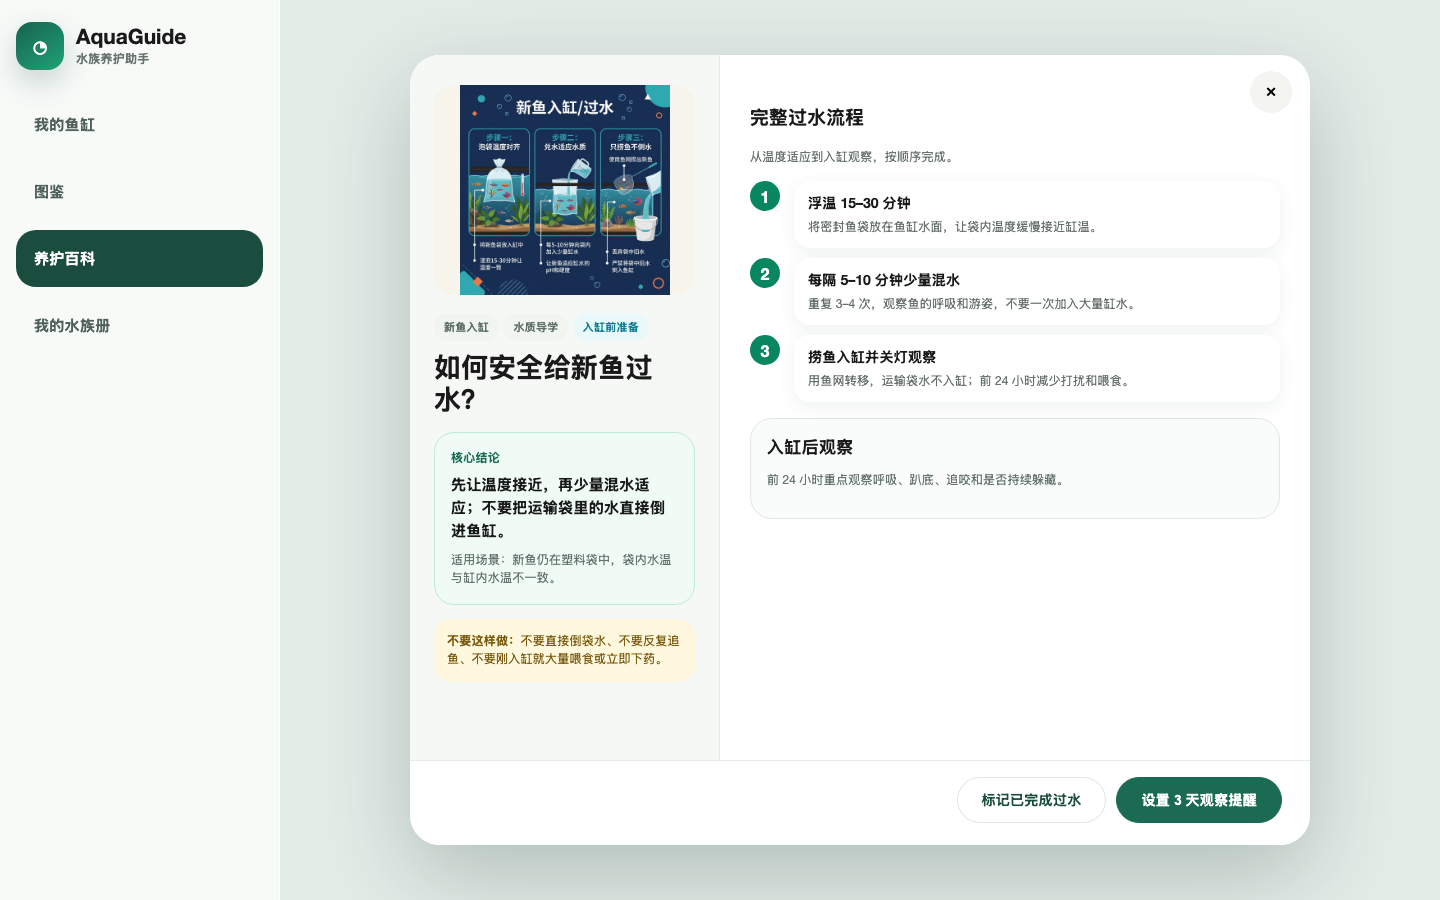
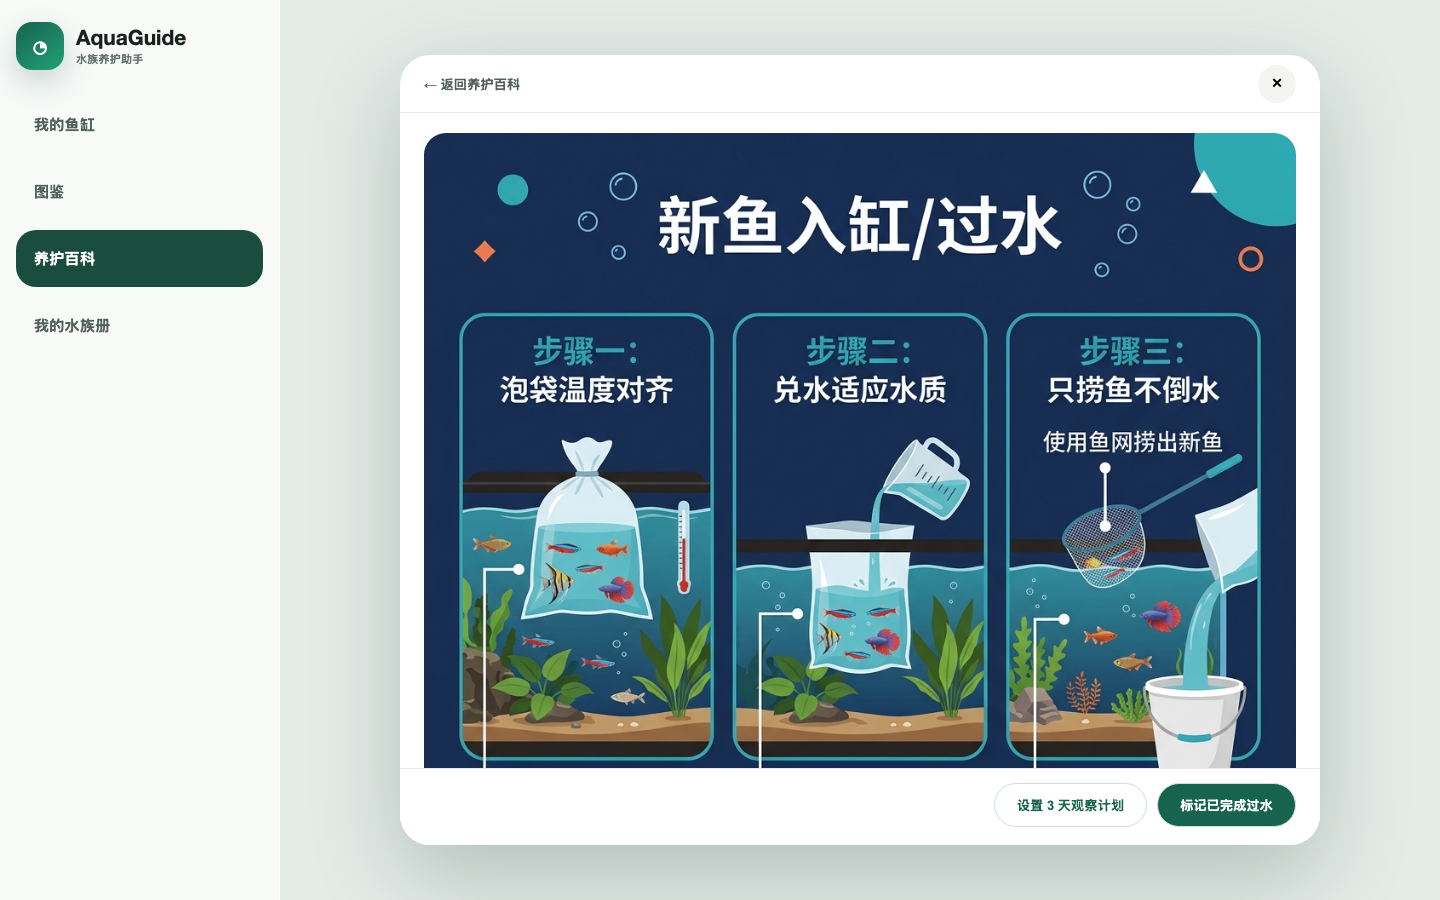
docs: update mobile care experience specs

diff --git a/docs/02-design/demos/care-detail-prototypes.html b/docs/02-design/demos/care-detail-prototypes.html
@@ -3,28 +3,29 @@
 <head>
   <meta charset="UTF-8" />
   <meta name="viewport" content="width=device-width, initial-scale=1.0" />
-  <title>AquaGuide 养护详情 Demo</title>
+  <title>AquaGuide 图示养护详情 Demo</title>
   <style>
-    *{box-sizing:border-box}body{margin:0;background:#dfe8e5;color:#1a1a1a;font-family:"Helvetica Neue",Arial,sans-serif}.stage{position:relative;width:1440px;height:900px;overflow:hidden}.sidebar{position:absolute;inset:0 auto 0 0;width:280px;background:#f8faf8;border-right:1px solid rgba(255,255,255,.8);padding:22px 16px}.brand{display:flex;align-items:center;gap:12px;font-size:21px;font-weight:900}.logo{width:48px;height:48px;border-radius:16px;display:grid;place-items:center;background:linear-gradient(145deg,#17634e,#20a276);color:#fff;font-size:22px;box-shadow:0 12px 30px rgba(27,77,62,.22)}.nav{margin-top:26px;display:grid;gap:10px}.nav div{padding:18px;border-radius:20px;font-size:15px;font-weight:800;color:#50605b}.nav .on{background:#1b4d3e;color:#fff}.backdrop{position:absolute;inset:0 0 0 280px;background:#e4ece8}.modal{position:absolute;left:calc(50% + 140px);top:50%;transform:translate(-50%,-50%);width:900px;height:790px;max-height:88vh;border-radius:30px;background:#fff;box-shadow:0 30px 90px rgba(16,46,37,.24);overflow:hidden;display:flex;flex-direction:column}.close{position:absolute;z-index:5;right:18px;top:16px;width:42px;height:42px;border:0;border-radius:50%;background:#f4f5f1;font-size:20px}.body{min-height:0;flex:1;overflow:hidden}.footer{flex:0 0 auto;padding:16px 28px 22px;border-top:1px solid #e8ece8;display:flex;justify-content:flex-end;gap:10px;background:#fff}.btn{height:46px;padding:0 24px;border-radius:999px;border:1px solid #dce5df;background:#fff;color:#1b4d3e;font-weight:900;font-size:14px}.btn.primary{background:#1b6b52;color:#fff;border-color:#1b6b52}.tag{display:inline-flex;padding:6px 10px;border-radius:999px;background:#f2f4ef;color:#60706a;font-size:11px;font-weight:800}.tag.blue{background:#eaf8fb;color:#117b91}.tag.warn{background:#fff4d8;color:#9a6a00}.title{font-size:27px;line-height:1.2;font-weight:950;margin:10px 0 0}.summary{border:1px solid #bdebd6;background:#f0fbf5;border-radius:20px;padding:16px}.summary b{display:block;color:#176b51;font-size:12px;margin-bottom:7px}.summary p{margin:0;font-size:15px;font-weight:800;line-height:1.55}.muted{color:#66736f;font-size:12px;line-height:1.55}.hero{display:block;width:100%;object-fit:contain;background:#f7f4ec;border-radius:20px}.section{border:1px solid #dfe7e2;border-radius:22px;padding:16px;background:#f9fcfa}.section h3{margin:0;font-size:17px}.steps{margin-top:14px;display:grid;gap:10px}.step{display:grid;grid-template-columns:34px 1fr;gap:10px;align-items:start}.num{width:30px;height:30px;border-radius:50%;display:grid;place-items:center;background:#07865f;color:#fff;font-weight:900}.card{background:#fff;border-radius:16px;padding:12px 14px;box-shadow:0 5px 18px rgba(24,65,51,.07)}.card strong{font-size:14px}.card p{margin:5px 0 0;color:#66706d;font-size:12px;line-height:1.5}.warning{background:#fff8df;border-radius:17px;padding:13px;color:#7c5d12;font-size:12px;line-height:1.55}.a .body{overflow:auto;padding:28px 34px}.a .top{display:grid;grid-template-columns:220px 1fr;gap:20px}.a .hero{height:218px}.a .section{margin-top:18px}.b .body{display:grid;grid-template-columns:310px 1fr;overflow:hidden}.b .left{padding:30px 24px;background:#f5f8f5;border-right:1px solid #e3e9e5}.b .hero{height:210px;margin-bottom:18px}.b .right{padding:30px;overflow:auto}.b .summary{margin-top:16px}.b .warning{margin-top:14px}.c .body{overflow:auto;padding:28px 34px}.c .head{display:grid;grid-template-columns:150px 1fr;gap:18px;align-items:center}.c .hero{height:142px}.progress{margin-top:17px;padding:14px 16px;border-radius:18px;background:#f3f8f5}.bar{height:8px;background:#dce9e2;border-radius:99px;overflow:hidden;margin-top:9px}.bar i{display:block;width:34%;height:100%;background:#15936a}.checklist{display:grid;gap:10px;margin-top:16px}.check{display:grid;grid-template-columns:42px 1fr auto;gap:12px;align-items:center;padding:14px;border:1px solid #dfe7e2;border-radius:18px}.box{width:30px;height:30px;border-radius:10px;border:2px solid #80ad9b}.time{font-size:11px;color:#7a8581;background:#f4f5f1;padding:6px 9px;border-radius:999px}
+    *{box-sizing:border-box}body{margin:0;background:#dfe8e5;color:#18211e;font-family:"Helvetica Neue",Arial,sans-serif}.stage{position:relative;width:1440px;height:900px;overflow:hidden}.sidebar{position:absolute;inset:0 auto 0 0;width:280px;background:#f8faf8;border-right:1px solid #fff;padding:22px 16px}.brand{display:flex;align-items:center;gap:12px;font-size:21px;font-weight:900}.logo{width:48px;height:48px;border-radius:16px;display:grid;place-items:center;background:linear-gradient(145deg,#17634e,#20a276);color:#fff;font-size:22px;box-shadow:0 12px 30px rgba(27,77,62,.22)}.nav{margin-top:26px;display:grid;gap:10px}.nav div{padding:18px;border-radius:20px;font-size:15px;font-weight:800;color:#50605b}.nav .on{background:#1b4d3e;color:#fff}.backdrop{position:absolute;inset:0 0 0 280px;background:#e4ece8}.modal{position:absolute;left:calc(50% + 140px);top:50%;transform:translate(-50%,-50%);width:920px;height:790px;border-radius:30px;background:#fff;box-shadow:0 30px 90px rgba(16,46,37,.24);overflow:hidden;display:flex;flex-direction:column}.headbar{height:58px;flex:none;display:flex;align-items:center;justify-content:space-between;padding:0 24px;border-bottom:1px solid #e8ece8}.back{font-size:13px;font-weight:850;color:#52615c}.close{width:38px;height:38px;border:0;border-radius:50%;background:#f4f5f1;font-size:20px}.body{min-height:0;flex:1;overflow:auto;padding:24px}.footer{flex:none;padding:14px 24px 18px;border-top:1px solid #e8ece8;display:flex;justify-content:flex-end;gap:10px;background:#fff}.btn{height:44px;padding:0 22px;border-radius:999px;border:1px solid #cfe2d8;background:#fff;color:#17634e;font-weight:900;font-size:13px}.btn.primary{background:#17634e;color:#fff}.tag{display:inline-flex;padding:5px 9px;border-radius:999px;background:#eef4f0;color:#557067;font-size:10px;font-weight:850}.tag.warn{background:#fff3cf;color:#8a6200}.title{font-size:27px;line-height:1.16;font-weight:950;margin:10px 0 5px}.muted{color:#66736f;font-size:11px;line-height:1.5}.hero{width:100%;height:100%;object-fit:contain;background:#f7f4ec;border-radius:22px}.imageBox{position:relative;min-height:0}.zoom{position:absolute;right:12px;bottom:12px;padding:7px 10px;border-radius:999px;background:rgba(255,255,255,.92);font-size:10px;font-weight:900;color:#17634e;box-shadow:0 6px 18px rgba(15,42,34,.13)}.summary{margin-top:12px;border:1px solid #bdebd6;background:#f0fbf5;border-radius:18px;padding:13px}.summary b{display:block;color:#176b51;font-size:11px;margin-bottom:5px}.summary p{margin:0;font-size:14px;font-weight:850;line-height:1.45}.steps{display:grid;gap:8px}.step{display:grid;grid-template-columns:29px 1fr;gap:8px;align-items:start;padding:10px;border-radius:15px;background:#f7faf8}.num{width:27px;height:27px;border-radius:50%;display:grid;place-items:center;background:#07865f;color:#fff;font-size:11px;font-weight:900}.step strong{font-size:12px}.step p{margin:4px 0 0;color:#66706d;font-size:10px;line-height:1.45}.warning{background:#fff7dc;border-radius:16px;padding:11px 12px;color:#76570d;font-size:10px;line-height:1.5}.label{font-size:12px;font-weight:950;margin-bottom:8px}.progress{display:flex;align-items:center;gap:8px;margin:10px 0}.progress i{height:8px;flex:1;border-radius:99px;background:linear-gradient(90deg,#16956c 33%,#dce9e2 33%)}.progress span{font-size:10px;font-weight:900;color:#17634e}.check{display:grid;grid-template-columns:32px 1fr auto;gap:9px;align-items:center;padding:12px;border:1px solid #dfe7e2;border-radius:16px}.box{width:27px;height:27px;border-radius:9px;border:2px solid #7aa895}.time{font-size:9px;color:#68746f;background:#eff3f0;padding:5px 7px;border-radius:999px}.a .body{display:grid;grid-template-columns:minmax(0,1.05fr) minmax(340px,.95fr);gap:18px}.a .imageBox{min-height:610px}.a .right{display:flex;flex-direction:column}.a .steps{margin-top:14px}.a .warning{margin-top:auto}.b .body{padding:0}.b .imageTop{height:380px;padding:20px 24px 0}.b .lower{display:grid;grid-template-columns:1fr 1.15fr;gap:18px;padding:18px 24px 24px}.b .summary{margin-top:8px}.c .body{display:grid;grid-template-columns:minmax(0,.92fr) minmax(360px,1.08fr);gap:20px}.c .imageBox{min-height:610px}.c .checklist{display:grid;gap:9px;margin-top:14px}.c .focus{border:2px solid #77bfa3;background:#f2fbf7}.phone .stage{width:390px;height:844px;background:#eef3f0}.phone .sidebar,.phone .backdrop{display:none}.phone .modal{inset:0;transform:none;width:390px;height:844px;border-radius:0;box-shadow:none}.phone .headbar{height:52px;padding:0 14px}.phone .body{padding:14px}.phone .footer{padding:10px 14px 18px;display:grid;grid-template-columns:1fr}.phone .footer .btn{width:100%}.phone .footer .secondary{display:none}.phone .title{font-size:22px}.phone .a .body,.phone .c .body{display:block}.phone .a .imageBox,.phone .c .imageBox{height:315px;min-height:315px}.phone .a .right,.phone .c .right{margin-top:14px}.phone .a .steps{margin-top:12px}.phone .a .warning{margin-top:10px}.phone .b .body{padding:0}.phone .b .imageTop{height:340px;padding:14px 14px 0}.phone .b .lower{display:block;padding:14px}.phone .b .steps{margin-top:12px}.phone .c .checklist{margin-top:12px}.phone .summary p{font-size:12px}.phone .step p{font-size:9.5px}
   </style>
 </head>
 <body>
   <div class="stage">
     <aside class="sidebar"><div class="brand"><div class="logo">◔</div><div>AquaGuide<div class="muted">水族养护助手</div></div></div><div class="nav"><div>我的鱼缸</div><div>图鉴</div><div class="on">养护百科</div><div>我的水族册</div></div></aside>
     <div class="backdrop"></div>
-    <main id="modal" class="modal a"><button class="close">×</button><div id="content" class="body"></div><footer class="footer"><button class="btn">标记已完成过水</button><button class="btn primary">设置 3 天观察提醒</button></footer></main>
+    <main id="modal" class="modal a"><header class="headbar"><span class="back">← 返回养护百科</span><button class="close">×</button></header><div id="content" class="body"></div><footer class="footer"><button class="btn secondary">设置 3 天观察计划</button><button class="btn primary">标记已完成过水</button></footer></main>
   </div>
   <script>
-    const variant=new URLSearchParams(location.search).get('variant')||'a';
+    const params=new URLSearchParams(location.search),variant=params.get('variant')||'a',device=params.get('device')||'desktop';
+    document.body.classList.toggle('phone',device==='mobile');
     const modal=document.querySelector('#modal');modal.className='modal '+variant;
-    const image='<img class="hero" src="/assets/qa/new_fish_acclimation_chinese.png" alt="新鱼过水示意">';
-    const tags='<span class="tag">新鱼入缸</span> <span class="tag">水质导学</span> <span class="tag blue">入缸前准备</span>';
-    const summary='<div class="summary"><b>核心结论</b><p>先让温度接近，再少量混水适应；不要把运输袋里的水直接倒进鱼缸。</p><div class="muted" style="margin-top:8px">适用场景：新鱼仍在塑料袋中，袋内水温与缸内水温不一致。</div></div>';
-    const steps='<div class="steps"><div class="step"><div class="num">1</div><div class="card"><strong>浮温 15–30 分钟</strong><p>将密封鱼袋放在鱼缸水面，让袋内温度缓慢接近缸温。</p></div></div><div class="step"><div class="num">2</div><div class="card"><strong>每隔 5–10 分钟少量混水</strong><p>重复 3–4 次，观察鱼的呼吸和游姿，不要一次加入大量缸水。</p></div></div><div class="step"><div class="num">3</div><div class="card"><strong>捞鱼入缸并关灯观察</strong><p>用鱼网转移，运输袋水不入缸；前 24 小时减少打扰和喂食。</p></div></div></div>';
-    const warning='<div class="warning"><b>不要这样做：</b>不要直接倒袋水、不要反复追鱼、不要刚入缸就大量喂食或立即下药。</div>';
-    if(variant==='a') document.querySelector('#content').innerHTML='<div class="top">'+image+'<div>'+tags+'<h1 class="title">如何安全给新鱼过水？</h1>'+summary+'</div></div><section class="section"><h3>现在按这 3 步做</h3>'+steps+warning+'</section>';
-    if(variant==='b') document.querySelector('#content').innerHTML='<aside class="left">'+image+tags+'<h1 class="title">如何安全给新鱼过水？</h1>'+summary+warning+'</aside><section class="right"><h3>完整过水流程</h3><p class="muted">从温度适应到入缸观察，按顺序完成。</p>'+steps+'<div class="section" style="margin-top:16px"><h3>入缸后观察</h3><p class="muted">前 24 小时重点观察呼吸、趴底、追咬和是否持续躲藏。</p></div></section>';
-    if(variant==='c') document.querySelector('#content').innerHTML='<div class="head">'+image+'<div>'+tags+'<h1 class="title">新鱼过水任务清单</h1><p class="muted">完成 1 / 3 · 预计还需 25 分钟</p></div></div>'+summary+'<div class="progress"><b>当前进度</b><div class="bar"><i></i></div></div><div class="checklist"><div class="check"><div class="box"></div><div><b>浮温</b><div class="muted">让袋内温度缓慢接近缸温</div></div><span class="time">15–30 分钟</span></div><div class="check"><div class="box"></div><div><b>少量混水</b><div class="muted">每 5–10 分钟加入少量缸水</div></div><span class="time">重复 3–4 次</span></div><div class="check"><div class="box"></div><div><b>捞鱼入缸</b><div class="muted">袋水不入缸，关灯安静观察</div></div><span class="time">完成</span></div></div>'+warning;
+    const image='<div class="imageBox"><img class="hero" src="/assets/qa/new_fish_acclimation_chinese.png" alt="新鱼过水完整图示"><span class="zoom">查看高清图 ↗</span></div>';
+    const intro='<div><span class="tag">新鱼入缸</span> <span class="tag warn">入缸前准备</span><h1 class="title">如何安全给新鱼过水？</h1><div class="muted">准备：鱼袋、干净容器、鱼网 · 预计 25–40 分钟</div></div>';
+    const summary='<div class="summary"><b>先记住</b><p>先对温，再少量混水；只捞鱼入缸，运输袋里的水不要倒进鱼缸。</p></div>';
+    const steps='<div class="steps"><div class="step"><div class="num">1</div><div><strong>泡袋对温 20–30 分钟</strong><p>保持鱼袋密封，漂在水面，让温度缓慢接近。</p></div></div><div class="step"><div class="num">2</div><div><strong>每 5–10 分钟少量混水</strong><p>重复 3–4 次，同时观察呼吸和游姿。</p></div></div><div class="step"><div class="num">3</div><div><strong>只捞鱼入缸，关灯观察</strong><p>袋水不入缸，前 24 小时减少喂食和打扰。</p></div></div></div>';
+    const warning='<div class="warning"><b>不要这样做：</b>不要直接倒袋水、不要反复追鱼、不要刚入缸就大量喂食或下药。</div>';
+    if(variant==='a') document.querySelector('#content').innerHTML=image+'<section class="right">'+intro+summary+'<div class="label" style="margin-top:14px">现在按这 3 步做</div>'+steps+warning+'</section>';
+    if(variant==='b') document.querySelector('#content').innerHTML='<div class="imageTop">'+image+'</div><div class="lower"><section>'+intro+summary+warning+'</section><section><div class="label">图解操作清单</div>'+steps+'</section></div>';
+    if(variant==='c') document.querySelector('#content').innerHTML=image+'<section class="right">'+intro+summary+'<div class="progress"><i></i><span>1 / 3</span></div><div class="label">当前：先完成泡袋对温</div><div class="checklist"><div class="check focus"><div class="box"></div><div><b>泡袋对温</b><div class="muted">鱼袋保持密封，漂浮 20–30 分钟</div></div><span class="time">进行中</span></div><div class="check"><div class="box"></div><div><b>少量混水</b><div class="muted">每 5–10 分钟加入少量缸水</div></div><span class="time">下一步</span></div><div class="check"><div class="box"></div><div><b>捞鱼入缸</b><div class="muted">袋水不入缸，关灯观察</div></div><span class="time">待完成</span></div></div>'+warning+'</section>';
   </script>
 </body>
 </html>

diff --git a/40-DOCS/CHANGELOG.md b/40-DOCS/CHANGELOG.md
@@ -14,7 +14,7 @@
 - 我的水族册、派生成就与分层交互的数据契约和设计基线。
 - `/collection` 四合一水族册及种草、养护、生命纪念、成就勋章四个页签。
 - 8 枚从既有鱼缸、收藏、巡检、换水和死亡记录自动追溯的成就勋章。
-- 桌面右侧详情抽屉、手机底部详情面板与自适应任务流程表面。
+- 桌面中央详情弹窗、手机底部详情面板与自适应任务流程表面。
 - 水族册成就断言、按钮行为审计和新版核心浏览器路径验收。
 - 真实设备级 `MobileAppShell` / `DesktopAppShell` 与设备策略断言。
 - 3D 与普通物种卡素材一致性断言。
@@ -22,6 +22,8 @@
 - 图鉴 Mini 混养判断与 `species_only` 规则范围。
 - 每日鱼缸检查、同日记录更新和受控 AI 补充解读。
 - 仅驻留当前会话的核心事件适配器与端到端验收脚本。
+- 应用内养护计划：明确日期、鱼缸绑定、到期状态、完成、改期、确认删除和旧提醒兼容。
+- 320–430px 手机分页、手动养护推荐、水族册入口、缸内物种与养护计划浏览器回归脚本。
 
 ### Changed
 
@@ -30,8 +32,8 @@
 - 单物种详情在无鱼缸时只显示一个明确状态；混养动作直接进入完整计算并保留物种，温度、尺寸和设备问题直接打开对应鱼缸设置。
 - 死亡记录统一改为“更多操作 → 填写日期和原因 → 确认保存”，未确认不写入。
 - 桌面物种、养护、纪念与水族册详情由右侧抽屉统一改为最大 900px、88dvh 的中央弹窗；真实手机仍使用底部详情面板。
-- 养护百科桌面页面改为按内容容器响应的双栏/单列结构，移除强制最小画布与旧网格跨行拼接；文章详情默认采用“结论先行”信息层级。
-- 新增同一篇“如何安全给新鱼过水？”的结论先行、双栏指南、任务清单三套高保真对照稿。
+- 养护百科桌面页面改为按内容容器响应的双栏/单列结构，移除强制最小画布与旧网格跨行拼接；操作型文章采用“图示操作台”信息层级。
+- 新增同一篇“如何安全给新鱼过水？”的图示操作台、图解长页、逐步带做三套桌面与手机高保真对照稿。
 - `docs/README.md` 成为当前产品事实入口；旧功能分析与交互报告标记为历史审计，不再作为当前 PRD 依据。
 - `/3d-demo` 在产品文档中明确为内部实验，不进入正式导航与核心验收。
 - 桌面浏览器缩窄后保持桌面工作台，平板默认使用桌面布局。
@@ -42,11 +44,17 @@
 - 3D 鱼、水草、硬景统一通过版本化物种素材解析器加载。
 - 完整混养继续使用 `tank` 范围，图鉴 Mini 使用同一引擎的 `species_only` 范围。
 - 详情关闭统一通过共享导航恢复来源滚动位置、可访问焦点和短暂高亮。
+- 操作型养护详情改为 A「图示操作台」：大图与三步操作指引构成首屏；B/C 作为桌面和手机对照稿保留。
+- 手机推荐取消自动轮播和相邻卡片露出；养护页移除重复底部安全区与厚重“养护知识”框架。
+- 桌面鱼缸顶部恢复切换、新建和缸内物种入口；手机 3D 全屏预览补充物种列表。
+- 手机种草与养护收藏入口统一进入水族册，水族册增加“种草 · 养护 · 纪念 · 勋章”二级说明。
+- 手机图鉴底部分页改为首页、上一组、组数、下一组、尾页单行布局。
 
 ### Fixed
 
 - 修复 3D 鱼缸继续显示旧版生物素材的问题。
 - 修复详情关闭后滚动、焦点与来源高亮未稳定恢复的问题。
+- 修复手机图鉴分页折叠、养护推荐自动移动和页面底部重复大留白。
 
 ### Removed
 

diff --git a/docs/02-design/INTERACTION_SPEC.md b/docs/02-design/INTERACTION_SPEC.md
@@ -49,6 +49,8 @@
 
 页面内部使用容器宽度决定列数，不使用视口断点把桌面页面替换成手机页面。图片必须限制在容器内，卡片使用可收缩网格列，长标签允许换行或省略并提供完整可访问名称。
 
+手机列表分页固定为“首页 / 上一组 / 当前组数 / 下一组 / 尾页”五段单行布局，图标按钮必须保留中文可访问名称。推荐内容不得自动轮播，也不能露出相邻卡片；手机应用壳只提供一次底部导航安全空间，页面不得重复叠加大段底部留白。
+
 ## 5. 单个物种详情
 
 ### 5.1 首屏信息顺序
@@ -117,6 +119,8 @@ flowchart LR
 
 收藏或死亡记录保存后，统一变更事件使水族册数量即时更新。用户从水族册打开详情，关闭后仍停留在原页签和原卡片，不跳回图鉴、养护或鱼缸主页。
 
+手机端种草与养护收藏的正式入口统一进入 `/collection?tab=wishlist` 与 `/collection?tab=care`，不再在鱼缸、图鉴或养护页展开第二套收藏列表。收藏成功提示“已收录到水族册”，并提供一次“去水族册查看”。水族册标题下固定说明“种草 · 养护 · 纪念 · 勋章”。
+
 ### 6.5 AI 建缸助手
 
 ```mermaid
@@ -129,6 +133,16 @@ flowchart LR
 ### 6.6 成就勋章
 
 成就页首屏必须解释：“勋章根据已有记录自动解锁，无需领取。”每张锁定卡只显示当前进度、目标和一个下一步，例如“再巡检 2 天”。解锁态显示日期或完成说明；不使用死亡数量作为奖励。
+
+### 6.7 养护文章与应用内计划
+
+操作型文章采用 A「图示操作台」：桌面中央弹窗首屏以大图和三步操作并列，手机底部全高面板先显示可放大的主图，再显示准备项、三步操作与禁止动作。主图可打开高清预览；步骤可以勾选并记录完成。B「图解长页」与 C「逐步带做」仅作为对照 Demo，不进入正式交互。
+
+“设置提醒”在产品中表示应用内养护计划，不是系统通知，也没有独立提醒中心。用户选择明天、3 天后或 7 天后等明确节点；计划绑定当前鱼缸，没有鱼缸时归为通用计划。鱼缸页按今日、即将到期、已逾期展示，并支持完成、改期和确认删除。同一文章、同一鱼缸只保留一条未完成计划。
+
+### 6.8 鱼缸核心入口
+
+桌面鱼缸顶部始终提供鱼缸切换、“缸内物种”和“新建鱼缸”。手机与桌面的“缸内物种”均展开同一个“缸内物种与配置”区，生物排在设备、底砂和造景之前；手机全屏 3D 预览同样显示可切换的物种列表。
 
 ## 7. 表单、错误与无障碍
 

diff --git a/docs/03-development/QA_ACCEPTANCE.md b/docs/03-development/QA_ACCEPTANCE.md
@@ -20,6 +20,8 @@
 
 ### 创建与添加生物
 
+- 桌面鱼缸顶部始终能切换鱼缸、查看缸内物种和新建鱼缸。
+- 手机“缸内物种”展开既有内容区，3D 全屏预览可看到物种列表。
 - 创建鱼缸后返回概览并显示保存成功。
 - 未填必填项时显示字段级错误并聚焦第一个错误。
 - 添加生物保留选择，经过完整混养复核后才写入。
@@ -46,6 +48,15 @@
 - 收藏、取消收藏和纪念保存后，数量与成就即时更新。
 - 8 枚勋章覆盖锁定、进度、历史追溯与解锁。
 - 成就说明明确“自动解锁、无需领取、还差多少”。
+- 手机种草、图鉴种草和养护收藏入口均进入水族册对应页签，不打开旧弹窗或折叠列表。
+
+### 养护文章与养护计划
+
+- 操作型详情首屏显示可放大的主图、准备项、三步操作和禁止动作。
+- 手机推荐等待 4.5 秒不自动换卡，不露出左右相邻内容。
+- 养护计划覆盖创建、同文章同缸更新、到期、逾期、完成、改期、确认删除和旧提醒迁移。
+- 养护计划仅在鱼缸页内展示，不申请系统通知权限，也不出现独立提醒中心。
+- 手机养护页与图鉴页只由应用壳提供一次底部安全空间。
 
 ### 详情与按钮
 
@@ -82,6 +93,7 @@ npm run test:layout-mode
 npm run test:session-events
 npm run test:product-actions
 npm run test:core-ui
+npm run test:mobile-care-ui
 ```
 
 自动脚本通过后仍需手动走查五条路径：添加生物、每日检查、Mini 混养、收藏查看、AI 建缸助手。

diff --git a/docs/01-definition/CURRENT_PRODUCT_STATUS.md b/docs/01-definition/CURRENT_PRODUCT_STATUS.md
@@ -14,17 +14,17 @@
 | 模块 | 状态 | 当前能力 | 未完成事项 |
 | --- | --- | --- | --- |
 | 设备布局壳 | 已完成 | 真实手机使用手机壳；桌面和平板使用桌面壳；600–1440px 核心页面按内容降列 | 新页面继续遵守功能对照 |
-| 我的鱼缸 | 部分完成 | 多鱼缸、设置、生物、记录、3D、每日检查、AI 建缸助手；顶部卡片按三/二/一列重排 | 3D 真实低端设备性能验证 |
+| 我的鱼缸 | 部分完成 | 多鱼缸、桌面常驻切换/新建/缸内物种入口、3D 手机物种列表、每日检查、AI 建缸助手与应用内养护计划 | 3D 真实低端设备性能验证 |
 | 3D 鱼缸 | 部分完成 | 版本化物种素材、点击详情、帧率与暂停控制 | 大代码块、低端设备和首次加载专项优化 |
 | 物种图片质量 | 部分完成 | 已审计 486 张；0 个高优先级、18 个中优先级返工候选；2D/3D URL 一致性通过 | 逐张复核并返工低对比、贴边与碎片化素材 |
-| 图鉴 | 已完成 | 物种库、搜索、筛选、分页、详情、种草、Mini 混养；工具区和卡片按内容宽度重排 | 继续补真实物种回归样本 |
+| 图鉴 | 已完成 | 物种库、搜索、筛选、详情、种草、Mini 混养；手机分页为首页/上一组/组数/下一组/尾页单行布局 | 继续补真实物种回归样本 |
 | 单物种详情 | 部分完成 | 中央/底部自适应详情、无鱼缸单一状态、完整混养跳转、设置定位、收藏与死亡确认 | 继续补真实鱼缸组合与手机可访问性验收 |
 | Mini 混养 | 已完成 | `species_only` 四态判断和选择传递 | 继续补真实组合回归样本 |
 | 完整混养 | 已完成 | `tank` 范围、当前鱼缸环境、写入策略 | 跨入口真实鱼缸人工验收 |
-| 养护百科 | 部分完成 | 搜索、分类、文章、检查清单、收藏、诊断入口；页面已按容器在双栏与单列间重排，详情采用结论先行布局 | 操作型、诊断型和护理型文章继续按内容类型细化 |
+| 养护百科 | 部分完成 | 搜索、分类、文章、检查清单、收藏、诊断入口；手机推荐改为手动单卡，操作详情采用“大图 + 三步指引”的图示操作台 | 诊断型和护理型文章继续按内容类型细化 |
 | 每日检查 | 已完成 | 本地规则、受控 AI、候选文章、同日更新；覆盖正常、浮头、泡沫、异味、浑浊、拒食和多异常 | 继续观察真实用户描述分布 |
 | AI 建缸助手 | 已完成 | 三步流程、安全候选和失败兜底 | 继续观察入口密度和真实完成率 |
-| 我的水族册 | 已完成 | 四页签、详情上下文、兼容旧路由、按容器降列 | 继续观察收藏动效是否干扰主操作 |
+| 我的水族册 | 已完成 | 四页签、二级说明、详情上下文、兼容旧路由；手机种草与养护收藏正式入口已统一 | 继续观察收藏动效是否干扰主操作 |
 | 成就勋章 | 已完成 | 8 枚派生成就、历史追溯、自动解锁说明、三态和唯一下一步 | 不增加积分、排行或手动领取 |
 | AI BFF | 已完成 | 服务端 Key、限流、超时、五类任务 | 部署环境监控和调用成本统计 |
 | 本地数据 | 部分完成 | 鱼缸、巡检、收藏、纪念和养护业务写入已服务化并兼容旧键 | 图鉴筛选/推荐偏好仍是页面级 UI 状态；云同步未实施 |
@@ -44,5 +44,5 @@
 ## 当前质量基线
 
 - 混养、收藏、分类、物种知识、AI 入口、AI 建缸、3D 素材、布局、Mini、每日检查、会话事件、水族册和按钮动作均有专项脚本。
-- 核心浏览器脚本覆盖设备布局、水族册、自适应详情、Mini 和每日检查。
+- 核心浏览器脚本覆盖设备布局、水族册、自适应详情、Mini、每日检查，以及 320–430px 分页、手动推荐、缸内物种与养护计划。
 - 生产构建仍提示 `species.service` 与 `ThreeAquarium` 两个超过 500KB 的延迟加载代码块。

diff --git a/PROGRESS.md b/PROGRESS.md
@@ -1,7 +1,8 @@
 ## 当前任务目标
-执行全部待办整合计划：核心体验收口、窄桌面、勋章说明、业务写入服务化、每日检查样本与方案评估已经完成；当前只保留真实设备性能、18 张图片返工和跨入口人工验收等专项任务。
+完成手机端收藏、分页、养护操作与鱼缸核心入口收口；当前只保留真实设备性能、18 张图片返工和跨入口人工验收等专项任务。
 
 ## 已完成
+- 状态：`已完成`。手机种草与养护收藏入口统一进入“我的水族册”，水族册增加四类二级说明；图鉴分页恢复为首页、上一组、组数、下一组、尾页单行布局，320/375/390/430px 均无折叠或横向溢出；养护推荐取消自动轮播与相邻卡片露出并移除重复底部安全区。桌面鱼缸恢复常驻切换、新建和缸内物种入口，手机 3D 全屏预览补充物种列表。养护详情重做 A/B/C 三套桌面与手机 Demo，正式采用“大图 + 三步指引”的 A「图示操作台」。旧提醒在原存储键上升级为应用内养护计划，支持明确日期、鱼缸绑定、今日/即将到期/逾期、完成、改期和确认删除，不新增提醒中心或系统通知。`npm run lint`、`test:state-services`、`test:product-actions`、`test:core-ui` 与 `test:mobile-care-ui` 通过。（feature commit: `4dce9b8`）
 - 状态：`已完成`。鱼缸、图鉴和水族册按内容容器完成 600–1440px 窄桌面重排，桌面缩窄不再显示手机工具栏；勋章页补充“自动解锁、无需领取”说明，并统一显示三态、当前、目标、差值与唯一下一步。鱼缸、巡检和养护活动的业务写入收口到服务层，保留原存储键并统一派发更新事件；每日检查新增正常、浮头、泡沫、异味、浑浊、拒食和多异常样本。云同步仅完成方案评估，3D 与物种数据完成事实基线记录。全量 lint、build、专项测试与最新源码核心浏览器路径通过。（commit: `5b3f0d5`）
 - 状态：`已完成`。审计 486 张物种图片并生成可视化报告与返工队列：0 个高优先级问题，18 个中优先级候选，其中浅色主体低对比 11 张、主体贴边 5 张、主体碎片化 2 张；未覆盖用户原图。2D 卡片与 3D 版本化素材 URL 一致性测试通过。（commit: `844a190`）
 - 状态：`已完成`。收口单物种详情主路径与生命纪念：无鱼缸时只显示一个“尚未选择鱼缸”状态；图鉴、鱼缸和水族册的“检查混养”都会保留当前物种并进入完整计算；已有温度、水体、尺寸和设备问题会打开并高亮对应鱼缸设置，修复了设置 hash 在鱼缸数据加载前失效的问题。死亡记录改为填写日期和原因、确认后才通过统一纪念服务写入，保存后派发应用状态事件并同步鱼缸、水族册与勋章；重复关闭按钮已移除。`npm run lint`、`npm run build`、纪念/成就/按钮专项测试、完整核心浏览器回归及真实点击验收通过。（commit: `4ede92a`）
@@ -105,7 +106,7 @@
 - 继续验证有真实缸内活体时的“按鱼缸导入”与结果页写入交互；空缸空状态、本地候选推荐和非混养对象过滤已通过页面验证。
 - 逐张复核并返工图片质量队列中的 18 张中优先级素材；返工后重新执行透明边缘、文件体积和 2D/3D URL 一致性检查。
 - 继续修复收藏闭环的动效与弹窗入口：物种收藏/养护收藏后续需补飞入和 +1 动效。
-- 继续按文章类型细化养护详情：操作型时间线已采用结论先行基线，诊断型自查与护理型清单后续结合真实文章逐项验收。
+- 继续按文章类型细化养护详情：操作型已采用大图与三步指引的“图示操作台”，诊断型自查与护理型清单后续结合真实文章逐项验收。
 - 继续收敛旧 AI 入口：`risk_audit`、`risk_explanation`、`recommendation_assist` 仍保留兼容，后续需要在 UI 上进一步降级，避免用户感到“到处都是 AI”。
 - 清理或隔离外部项目目录，避免误提交非 AquaGuide 文件。
 - 后续性能优化先在真实低端设备完成 5 分钟帧率与 GPU 内存曲线，再决定是否拆分 `ThreeAquarium`、物种数据和图片资源；本轮未做大拆分。

diff --git a/PROJECT_STRUCTURE.md b/PROJECT_STRUCTURE.md
@@ -18,7 +18,7 @@
 - `src/modules/collection/`：水族册页签、纪念条目与成就进度类型。
 - `src/services/aquarium/`：鱼缸生物写入与复核。
 - `src/services/aquarium/aquarium-state.service.ts`：鱼缸集合兼容存储、当前鱼缸校验与统一变更通知。
-- `src/services/care/care-activity.service.ts`：提醒、完成操作与护理清单的旧键兼容写入。
+- `src/services/care/care-activity.service.ts`：应用内养护计划、完成操作与护理清单的旧键兼容写入。
 - `src/services/compatibility/`：Mini 与完整混养的会话级选择传递。
 - `src/services/diagnosis/`：巡检记录的同日更新策略。
 - `src/modules/diagnosis/`：每日检查问题、确定性规则与数据类型。
@@ -34,12 +34,13 @@
 - `docs/README.md`：当前产品文档总入口与事实来源说明。
 - `docs/01-definition/`：PRD、用户故事、竞品分析与当前产品状态。
 - `docs/02-design/`：信息架构、交互说明、设计系统、数据模型与 AI/API 边界。
-- `docs/02-design/demos/`：养护详情 A/B/C 三套高保真方案与可复现原型。
+- `docs/02-design/demos/`：养护详情 A/B/C 三套桌面与手机高保真方案及可复现原型。
 - `docs/03-development/`：技术架构、模块结构、本地运行、QA 与日志入口。
 - `docs/04-planning/PRODUCT_GAPS_AND_ROADMAP.md`：证据化卡点、优先级与迭代顺序。
 - `docs/LAYOUT_FEATURE_PARITY.md`：手机/桌面功能对照。
 - `scripts/`：规则、契约、素材与回归断言。
 - `scripts/verify-core-experience.mjs`：设备布局、水族册、自适应详情、Mini、每日检查与 AI 建缸助手浏览器验收。
+- `scripts/verify-mobile-care-experience.mjs`：320–430px 图鉴分页、手动养护推荐、水族册入口、缸内物种、3D 全屏列表与养护计划浏览器验收。
 - `scripts/test-collection-achievements.ts`：水族册聚合与 8 枚勋章追溯断言。
 - `scripts/test-memorial-service.ts`：日期/原因校验、旧键兼容和跨页面变更事件断言。
 - `scripts/test-business-state-services.ts`：鱼缸、巡检与养护业务写入服务断言。

diff --git a/docs/04-planning/PRODUCT_GAPS_AND_ROADMAP.md b/docs/04-planning/PRODUCT_GAPS_AND_ROADMAP.md
@@ -29,6 +29,10 @@
 | P1-03 | 锁定、进行中、已解锁状态视觉接近 | 颜色、图标、文字三重区分 | 三态均有独立文字与图标，不只依赖颜色 | 已完成 |
 | P1-04 | 桌面与手机功能目标一致，但部分页面仍混用视口断点 | 数据与动作共享，视图独立 | 功能对照表逐项一致，缩放不切换设备壳 | 部分完成 |
 | P1-05 | 旧专项文档存在旧命名、旧入口和失效结论 | 历史报告标记归档，当前文档唯一入口 | 新成员从 `docs/README.md` 不会读到失效架构 | 本轮处理 |
+| P1-06 | 手机种草与养护收藏入口分散，用户不知道收藏去了哪里 | 正式入口统一进入水族册对应页签 | 不再打开旧收藏弹窗或鱼缸原位列表 | 已完成 |
+| P1-07 | 手机图鉴底部分页折叠，边界跳转路径长 | 首页/上一组/组数/下一组/尾页保持单行 | 320–430px 无折叠、横向滚动，边界状态正确 | 已完成 |
+| P1-08 | 手机养护推荐自动移动且露出相邻内容，底部留白重复 | 推荐只手动切换并完整显示一张；安全区只由应用壳提供 | 等待不换卡、无横向溢出、末卡下方约 16px | 已完成 |
+| P1-09 | “设置提醒”只有本地文字，用户无法查看到期状态 | 升级为鱼缸页内的应用内养护计划 | 支持明确日期、到期状态、完成、改期、确认删除和旧数据迁移 | 已完成 |
 
 ## 4. P2 卡点
 

diff --git a/docs/02-design/DATA_MODEL.md b/docs/02-design/DATA_MODEL.md
@@ -41,7 +41,7 @@ erDiagram
 | `aquarium_diagnosis_records` | 旧诊断记录 | 兼容读取 |
 | `deceasedRecords` | 死亡记录 | 现有记录键，暂不迁移 |
 | `aquapediaDiscoveryDeck` | 图鉴发现卡组状态 | 辅助状态 |
-| `aqua_care_reminders` | 养护提醒 | 旧/辅助功能状态 |
+| `aqua_care_reminders` | 应用内养护计划 | 绑定文章、明确日期、可选鱼缸、完成状态；兼容旧文字提醒 |
 | `aqua_care_completed_operations` | 已完成养护操作 | 辅助状态 |
 | `aqua_care_saved_checklists` | 保存的检查清单 | 辅助状态 |
 
@@ -76,4 +76,3 @@ flowchart LR
 - 当前没有跨设备同步、云端备份或冲突合并。
 - Supabase 当前主要用于可选身份能力，不代表业务数据已经云端化。
 - 云端同步需要单独完成数据库、权限、迁移、恢复和隐私设计；在方案确认前不得直接迁移。
-

diff --git a/docs/02-design/INFORMATION_ARCHITECTURE.md b/docs/02-design/INFORMATION_ARCHITECTURE.md
@@ -17,7 +17,7 @@ flowchart TD
   A -. 内部实验 .-> X["3D Demo /3d-demo"]
 ```
 
-产品只包含四个正式核心模块。概念稿中出现过的“设置、数据统计、提醒中心”没有对应的正式路由或成熟功能，不属于当前产品架构。
+产品只包含四个正式核心模块。概念稿中出现过的“设置、数据统计、提醒中心”没有独立正式路由，不属于当前产品架构；养护计划作为“我的鱼缸”内的紧凑区块展示，不扩展为新的导航中心。
 
 ## 2. 导航规则
 